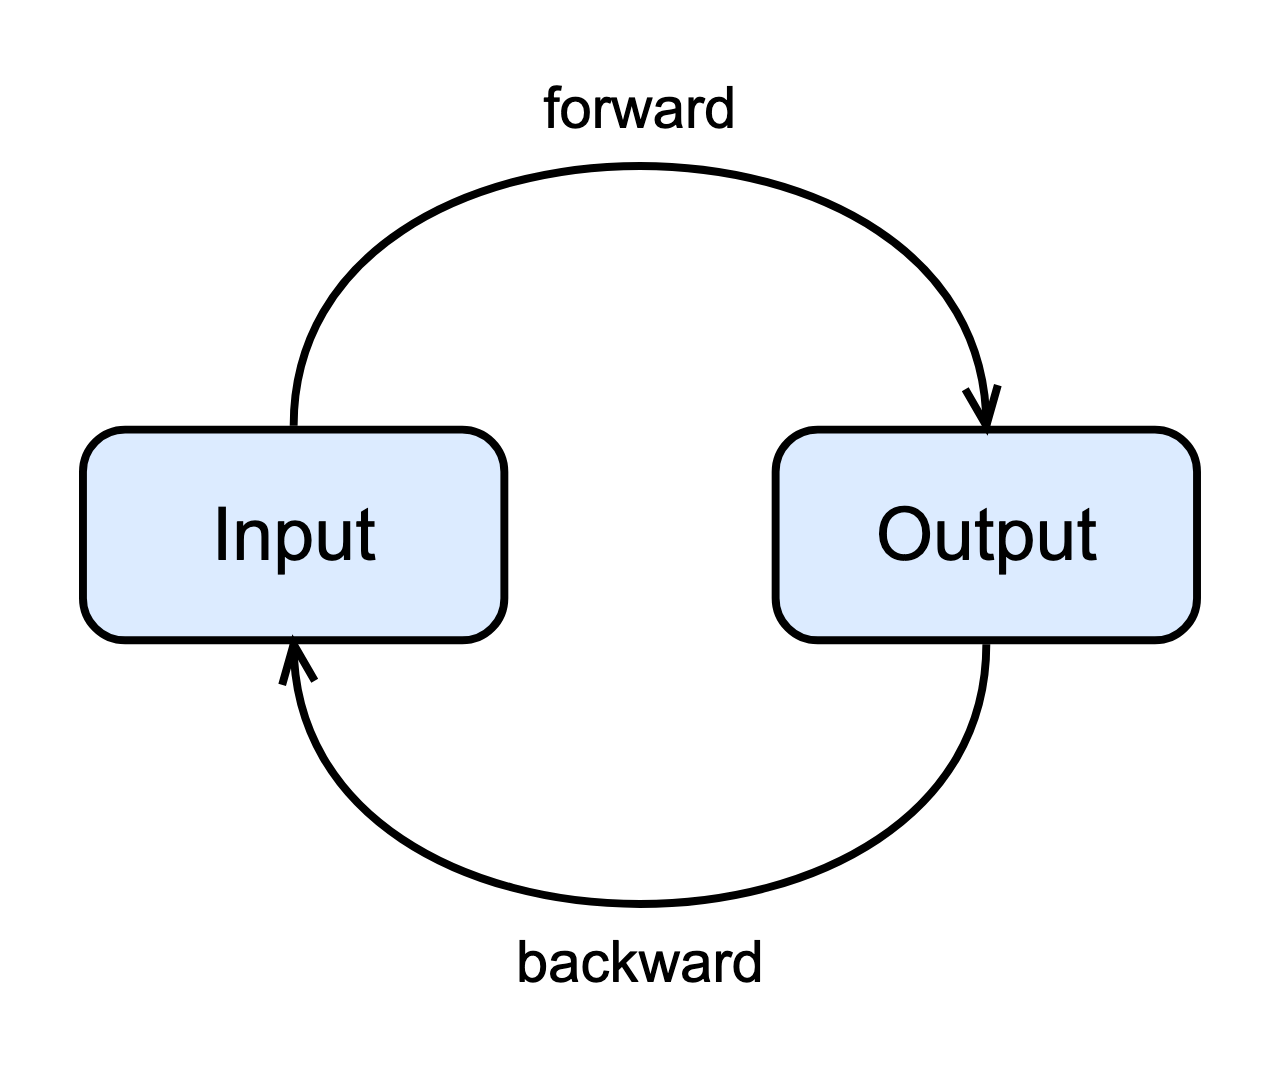
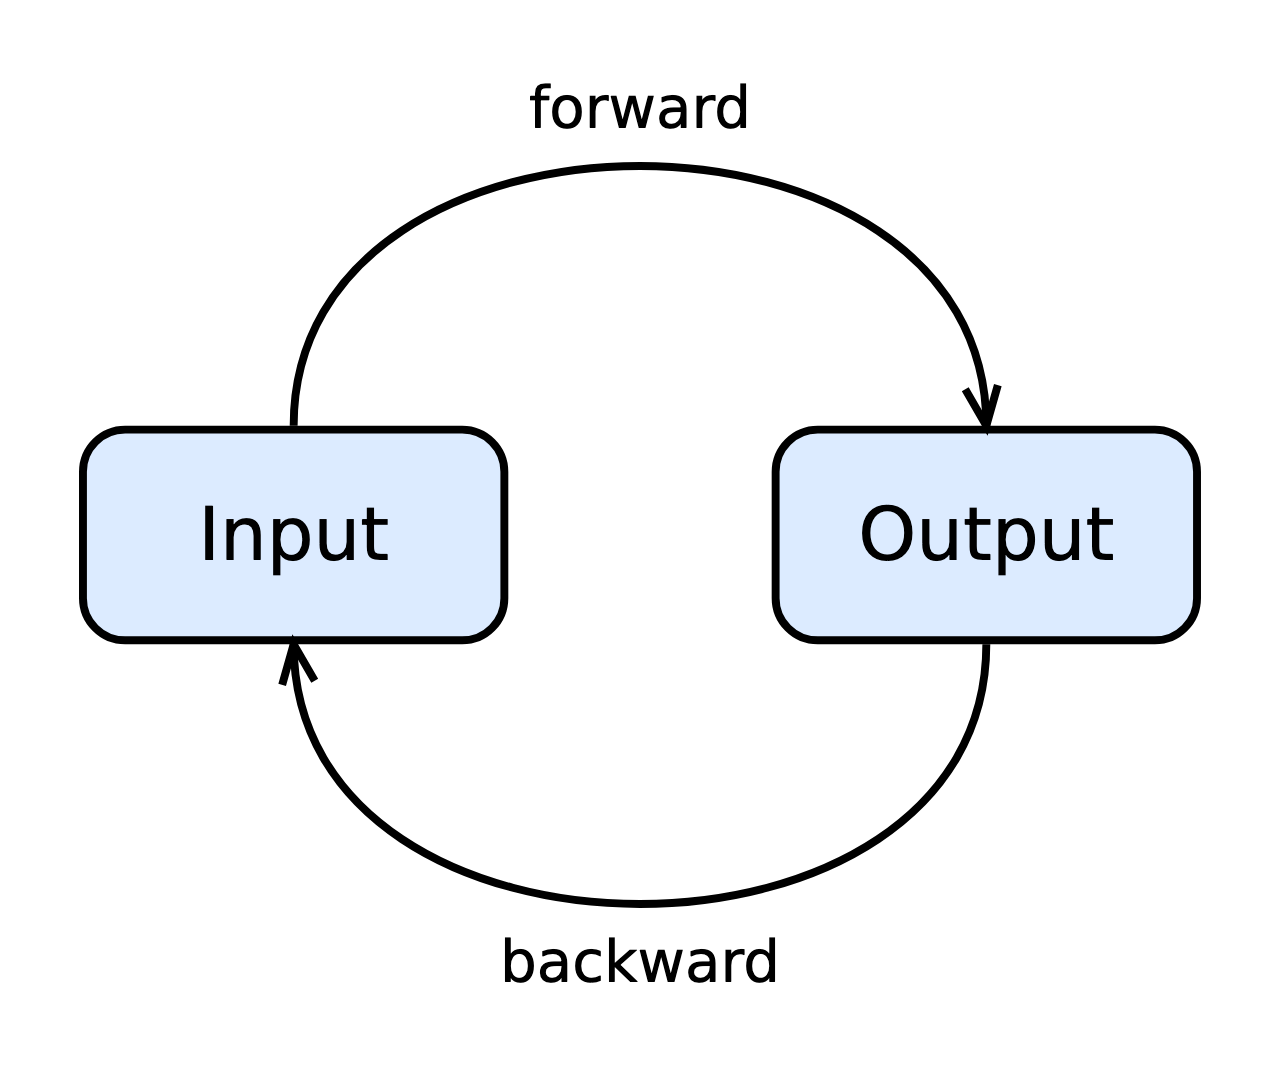
!important

diff --git a/test_playwright.py b/test_playwright.py
@@ -75,15 +75,15 @@ def _screenshot_svg(page, svg_name: str) -> bytes:
     svg_path = ROOT / svg_name
     assert svg_path.exists(), f"{svg_name} not found — run lake test first"
     svg_content = svg_path.read_text()
+    # Rewrite generic font families to bundled DejaVu fonts
+    svg_content = svg_content.replace('font-family="sans-serif"', 'font-family="DejaVu Sans"')
+    svg_content = svg_content.replace('font-family="monospace"', 'font-family="DejaVu Sans Mono"')
     sans_font = (FONTS_DIR / "DejaVuSans.ttf").resolve().as_uri()
     mono_font = (FONTS_DIR / "DejaVuSansMono.ttf").resolve().as_uri()
     html = f"""<!DOCTYPE html>
 <html><head><style>
-@font-face {{ font-family: 'sans-serif'; src: url('{sans_font}'); }}
-@font-face {{ font-family: 'monospace'; src: url('{mono_font}'); }}
 @font-face {{ font-family: 'DejaVu Sans'; src: url('{sans_font}'); }}
 @font-face {{ font-family: 'DejaVu Sans Mono'; src: url('{mono_font}'); }}
-svg {{ font-family: 'DejaVu Sans', sans-serif; }}
 </style></head><body style="margin:0;padding:0">{svg_content}</body></html>"""
     page.set_content(html)
     page.wait_for_load_state("networkidle")
